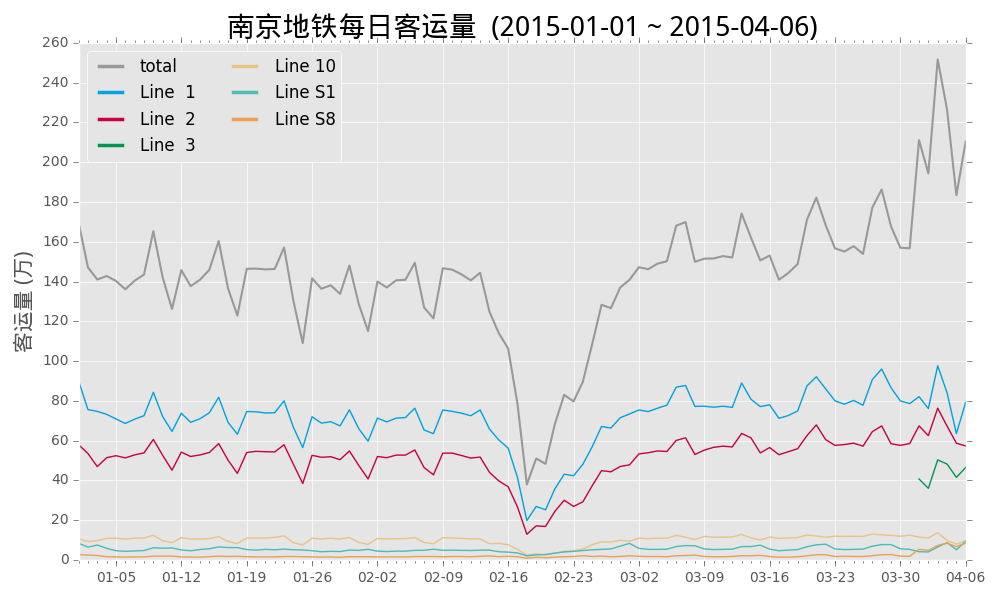
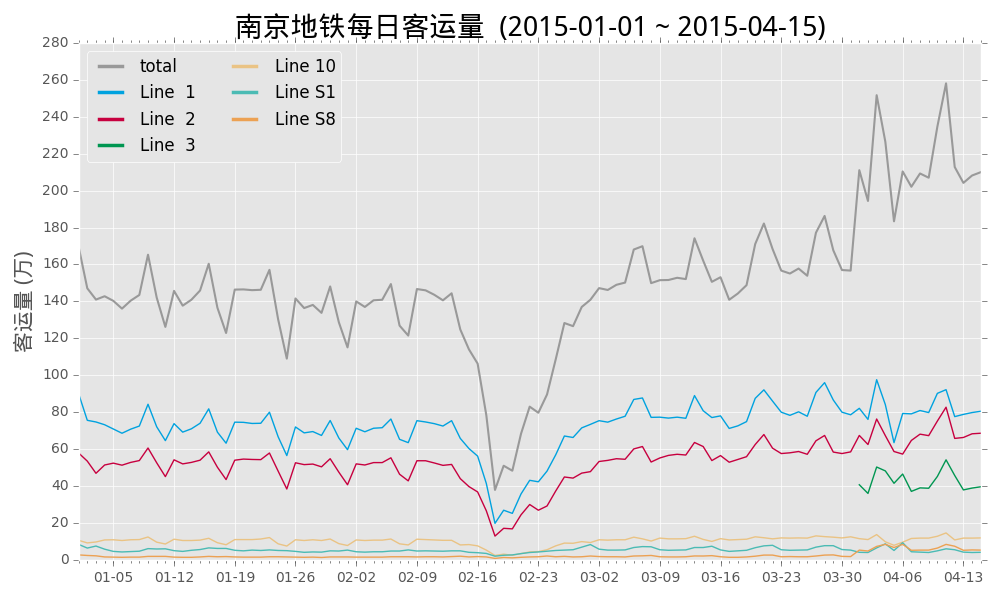
updated 2015-04-16

diff --git a/draw.py b/draw.py
@@ -37,7 +37,7 @@ class DrawFigure():
         monthsFmt = mdates.DateFormatter('%b')  #%b
 
         # format the ticks
-        self.ax.set_yticks([0,20,40,60,80,100,120,140,160,180,200,220,240,260])
+        self.ax.set_yticks([0,20,40,60,80,100,120,140,160,180,200,220,240,260,280])
         self.ax.xaxis.set_major_locator(years)
         self.ax.xaxis.set_major_formatter(yearsFmt)
         self.ax.xaxis.set_minor_locator(months)
@@ -55,7 +55,7 @@ class DrawFigure():
 
         #ax.plot(data_total[0], data_total[1])
         # format the ticks
-        self.ax.set_yticks([0,20,40,60,80,100,120,140,160,180,200,220,240,260])
+        self.ax.set_yticks([0,20,40,60,80,100,120,140,160,180,200,220,240,260,280])
         self.ax.xaxis.set_major_locator(mdates.WeekdayLocator(mdates.MONDAY))
         self.ax.xaxis.set_major_formatter(mdates.DateFormatter('%m-%d'))
         self.ax.xaxis.set_minor_locator(mdates.DayLocator())
@@ -99,7 +99,7 @@ class DrawFigure():
         plt.title(title, fontproperties=self.font_title) # plot title
         plt.ylabel('客运量 (万)',fontproperties=self.font_label) # Y label
         #plt.xlabel('date') # X label
-        plt.ylim(0, 260)
+        plt.ylim(0, 280)
         #pl.xlim(0.0, 9.0)# set axis limits
 
         plt.savefig('img/'+fname)
